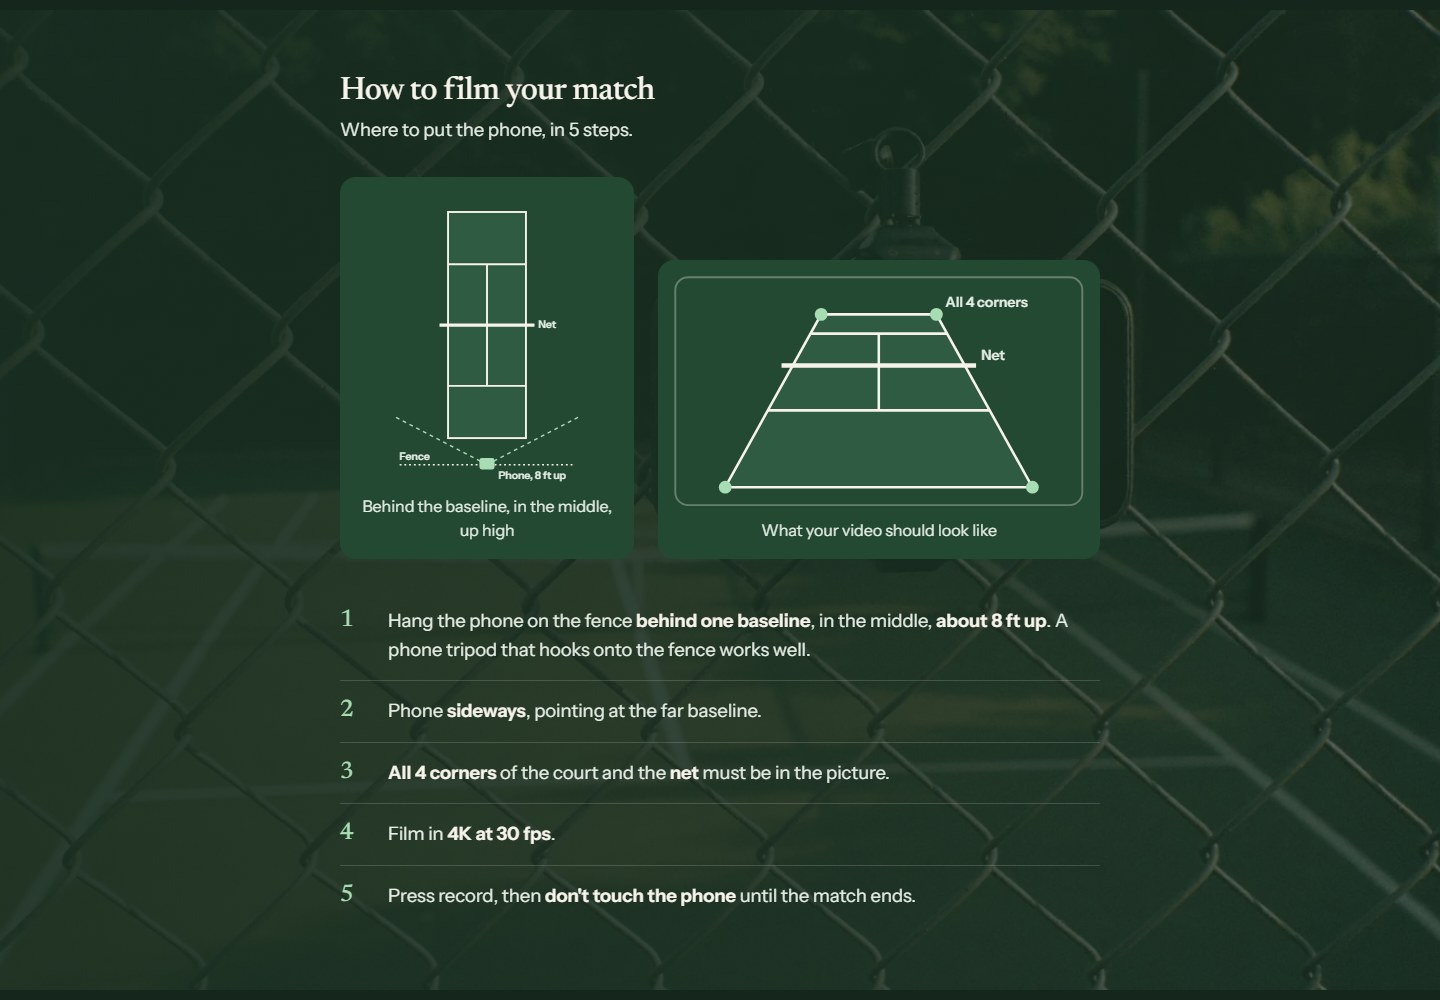
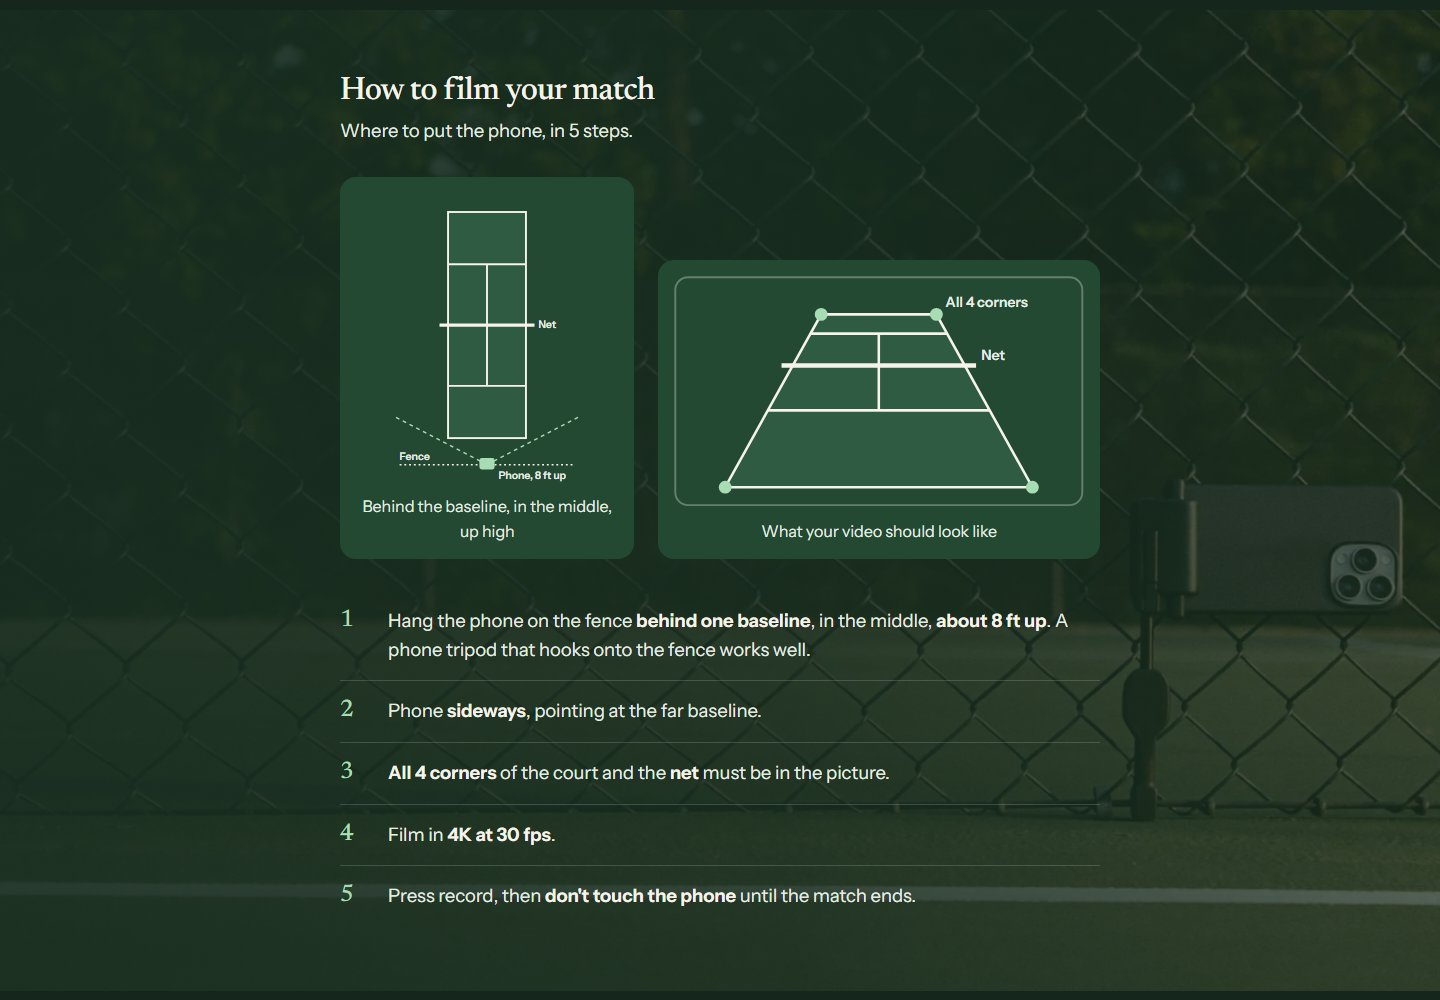
how to film: new photo with the phone on the court side of the fence, lens facing the court

diff --git a/calibration_demo.html b/calibration_demo.html
@@ -49,7 +49,7 @@
   --panel-pad-x: var(--space-6);
   --green-bg: #1E4029; --green-surface: #244933; --green-court: #2E5B41; --green-accent: #A8DDB4;
   --foot-bg: #0F1C14;
-  --film-focus: 70% 45%;
+  --film-focus: 100% 45%;
   --cta-h: 440px;
   --cta-focus: 62% 55%;
   --hero-under-ratio: 2 / 1;
@@ -302,7 +302,7 @@ section.block.band-green { margin-top: var(--space-8); padding: var(--space-8) c
 .band-green .figs figure { background: var(--green-surface); border-radius: var(--radius-lg); padding: var(--space-4); margin: 0; }
 .band-green figcaption { color: var(--ink-2); }
 
-/* ── Photo bands (A: filming guide over the phone-on-fence photo, B: closing call to action over the ball-on-line photo) */
+/* ── Photo bands (A: filming guide over the phone-on-fence photo, phone on the court side so nothing blocks the lens, B: closing call to action over the ball-on-line photo) */
 .band-photo { position: absolute; inset: 0; z-index: -1; overflow: hidden; }
 .band-photo img { width: 100%; height: 100%; object-fit: cover; display: block; }
 section.block.band-green { position: relative; isolation: isolate; }
@@ -589,7 +589,7 @@ body.photo-hero .topbar { margin-bottom: -64px; }
   </section>
 
   <section class="block band band-green" id="filmGuide" aria-labelledby="filmH">
-    <div class="band-photo" aria-hidden="true"><img src="band-phone-800.webp" srcset="band-phone-800.webp 800w, band-phone-1600.webp 1600w" sizes="100vw" width="1600" height="900" loading="lazy" alt=""></div>
+    <div class="band-photo" aria-hidden="true"><img src="band-phone-800.webp" srcset="band-phone-800.webp 800w, band-phone-1600.webp 1600w" sizes="100vw" width="1600" height="1245" loading="lazy" alt=""></div>
     <h2 id="filmH">How to film your match</h2>
     <p class="lede">Where to put the phone, in 5 steps.</p>
     <div class="figs">

diff --git a/DESIGN.md b/DESIGN.md
@@ -43,7 +43,7 @@
 - My reports: each match is a card (lighter green, ball icon, date, status badge, solid green "Ready", green left edge when ready, chevron to open) with a delete button on its right; a count badge next to the heading. Deleting asks first and removes the report and its video for good (not the example; not while it's being analysed). The report page has the same Delete button.
 - Report order: "Your #1 fix" card, overview (big rings, quick stats, AI summary), lost/won bar, top 3 fixes, keep doing, More stats, About this data. Each section is its own panel.
 - Same header bar and footer banner on every page. On Home the header floats over the photo.
-- Photos (AI-generated, 3 of 5 slots used): hero court from behind the baseline, phone sideways on the fence, ball on the baseline. WebP 800px for phones, 1600px for big screens.
+- Photos (AI-generated, 3 of 5 slots used): hero court from behind the baseline, phone sideways on the court side of the fence (lens facing the court, nothing in front of it), ball on the baseline. WebP 800px for phones, 1600px for big screens.
 
 ## Always / Never
 - **Always:** real data only; one accent (green), red only for lost points; phone first and checked at 375px and at desktop width; text readable outdoors.
